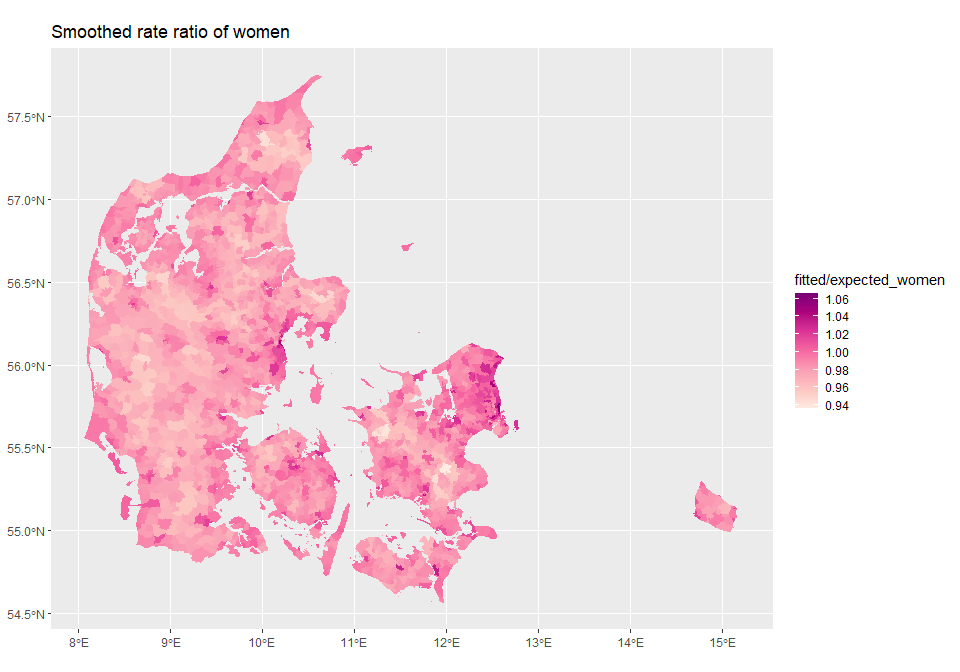
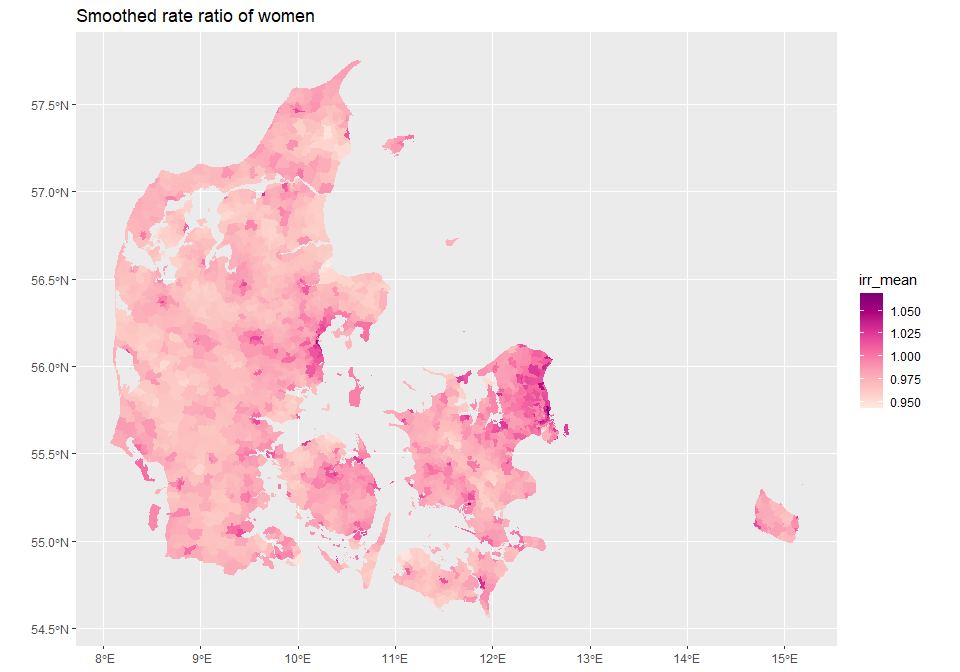
new bayesian model

diff --git a/README.md b/README.md
@@ -13,37 +13,234 @@ We calculate expected number of women in a parish as the national rate
 times population of each parish. Then the model is fitted.
 
 ``` r
+#library(CARBayes)
+#library(ape)
 library(tidyverse)
-library(spaMM)
 library(sf)
 library(dagirlite)
+library(spdep)
+
 
 data("geo_sogne")
 
-geo_sogne$expected_women <- geo_sogne$population * (sum(geo_sogne$women) / sum(geo_sogne$men) / 2)
+## -----------------------------------------------------------------------------
+## Setup
+## -----------------------------------------------------------------------------
 
-nbs <- st_intersects(geo_sogne, geo_sogne, sparse = FALSE)
-nbs[] <- +nbs
+# Parish ids and expected number of women
 geo_sogne$id <- 1:nrow(geo_sogne)
+geo_sogne$expected_women <- 
+  geo_sogne$population * (sum(geo_sogne$women) / sum(geo_sogne$men) / 2)
 
-fit <- fitme(women ~ 0 + offset(log(expected_women)) + adjacency(1|id), adjMatrix = nbs, 
-             data = geo_sogne, family = "poisson", method = "REML")
+# Testing for smoothed irr > 1 + theta with
+theta <- 0.02
 
-pred <- predict(fit, variances = list(linpred = TRUE, 
-                                      disp = TRUE, 
-                                      respVar = TRUE))
+## -----------------------------------------------------------------------------
+## Adjacency matrix - step 1: 
+## Bordering parishes
+## -----------------------------------------------------------------------------
+nbs <- +st_intersects(geo_sogne, geo_sogne, sparse = F)
+diag(nbs) <- 0
 
-geo_sogne$pred <- pred[]
-geo_sogne$fitted <- fitted(fit)
-geo_sogne$pv <- attr(pred, which = "predVar")
+geo_tbl <- geo_sogne %>% st_drop_geometry()
+geo_sp  <- as(geo_sogne, "Spatial")
 
-geo_sogne$prob_01 <- pnorm(log(1.005), 
-                           mean = log(geo_sogne$pred) - log(geo_sogne$expected_women), 
-                           sd = sqrt(geo_sogne$pv), lower.tail = FALSE)
 
-geo_sogne$prob_02 <- pnorm(log(1.02), 
-                           mean = log(geo_sogne$pred) - log(geo_sogne$expected_women), 
-                           sd = sqrt(geo_sogne$pv), lower.tail = FALSE)
+## -----------------------------------------------------------------------------
+## Adjacency matrix - step 2:
+## Adding neighbors for
+## 1) parishes = island (no neighbors). A neighbor relation was added for ferry 
+##    and bridge connections
+## -----------------------------------------------------------------------------
+
+# Connections for parish = whole island (24)
+island_con <- 
+  tibble(kode = c(rep("7246", 3), "7257", "7326", "7327", "7485", 
+                  rep("7521", 4), "7667", "7668", 
+                  "7669", "7689", "7693", "7694", 
+                  rep("7764", 2), rep("7765", 2), 
+                  "7802", "7963" ,"8059", "8086", "8165", "8548", "8659",
+                  "8855", rep("9183", 3), "9313", "7568"),
+         navn = c(rep("Orø", 3), "Sejerø", "Agersø", "Omø", "Nyord", 
+                  rep("Bogø", 4), "Fejø", "Femø",  
+                  "Askø", "Thurø", "Drejø", "Strynø", 
+                  rep("Lyø", 2), rep("Avernakø", 2), 
+                  "Bågø", "Hjarnø", "Endelave", "Tunø", "Anholt", "Fur", 
+                  "Jegindø", "Venø", rep("Samsø", 3), "Fanø", "Christiansø"), 
+         kode_nabo = c("7456", "7275", "7274", 
+                       "9323", "7325", "7325", "7483", 
+                       "7469", "7521", "7491", "7611",
+                       "7641", "7641", "7666", "9139", "7676", "7741", 
+                       "7765", "7695", 
+                       "7764", "7695",
+                       "7801", "7962", "7962", "8097", "8231", "8581", 
+                       "8657", "8854", 
+                       "8097", "7268", "9066", 
+                       "8906","7566"),  
+         navn_nabo = c("Ferslev", "Tveje Merløse", "Sankt Nikolai",               # Orø
+                       "Føllenslev-Særslev", "Magleby", "Magleby", "Stege", 
+                       "Vordingborg", "Stubbekøbing", "Fanefjord", "Gundslev",    # Bogø
+                       "Birket", "Birket", "Bandholm", "Fredens", "Sankt Nikolaj", 
+                       "Rudkøbing",
+                       "Avernakø", "Faaborg",                                     # Lyø
+                       "Lyø", "Faaborg",                                          # Avernakø
+                       "Assens", "Glud", "Glud", "Halling", "Grenaa", "Selde", 
+                       "Søndbjerg", "Humlum", 
+                       "Halling", "Vor Frue", "Nyvang",                           # Samsø
+                       "Zions", "Gudhjem"))     
+
+
+# Add island = whole parish connections (ferry + bridge) to adjacency matrix
+island_nb <-
+  island_con %>% 
+  left_join(geo_tbl %>% select(kode, id_island = id), by = "kode") %>% 
+  left_join(geo_tbl %>% select(kode, id_nb = id), by = c("kode_nabo" = "kode")) %>% 
+  select(id_island, id_nb) %>% 
+  as.matrix()
+
+W_tmp <- nbs
+W_tmp[island_nb] <- 1; W_tmp[island_nb[, c(2, 1)]] <- 1
+
+
+## -----------------------------------------------------------------------------
+## Adjacency matrix - step 3:
+## Adding neighbors for parishes connected by bridge
+## -----------------------------------------------------------------------------
+
+# Other connections - including bridges from a list at vejdirektoratet.dk
+
+# Add connections via Lillebæltsbroen, Storebæltsbroen, 
+# Dronning Alexandrines Bro (Møn), Storstrømsbroen, Guldborgsundbroen, 
+# Kong Frederik d. IX-broen, Svendborgsundbroen, Kronprins Frederiks bro, 
+# Aggersundbroen, Hadsundbroen, Langelandsbroen, Legindvejlebroen, 
+# Limfjordstunellen, Limfjordsbroen, Oddesundbroen, Sallingsundbroen, 
+# Siøsundbroen, Vejlefjordbroen
+
+# Kronprinsesse Marys bro and Nordhavnsvejtunellen not added (opened in 2019 and 2017)
+# Alssundbroen, Karrebækdsmindebroen, Stege Storebro, Funder Ådal Bro not 
+# necessary to add as the bridge is inside a parish
+#
+# Farøbroen, Masnedsundbroen are included via Bogø above
+# so already included in W_old)
+
+# Gudenåbroen, Kalvebodbroen, Frederikssundsvejtunellen, Lindenborg Pæledæk, 
+# Næstved Svingbro, Silkeborg Langsø Broen, Silkeborgtunellen, Skive Ådal Broen,
+# Sorterendebroen not necessary to add (parishes already bordering) 
+# (some of these also quite new)
+
+other_con <- 
+  tibble(kode = c("7826", "7825", "7724", "7481", "7469", rep("7594", 2), "7578", 
+                  "7741", "7677", "7418", "9113", "8358", "9006", "9005", 
+                  "9173", "7692", "8693", "8375", "8376", "8854", "8546", "9092", 
+                  "8665"),
+         navn = c("Strib", "Vejlby", "Nyborg", "Kalvehave", "Vordingborg", 
+                  rep("Majbølle", 2), "Nykøbing F", "Rudkøbing", "Sankt Jørgens", 
+                  "Frederikssund", "Islebjerg", "Næsborg", "Dybbøl", "Egernsund", 
+                  "Falslev-Vindblæs", "Bjerreby", "Lødderup", "Nørresundby", 
+                  "Hvorup", "Humlum", "Glyngøre", "Nørremarks", "Stagstrup"), 
+         kode_nabo = c(rep("9163", 2), "9070", "7483", "9318", "7575", "9318", 
+                       "7596", "7692", "7690", rep("7453", 2), "8399", "8992", 
+                       "9025", "9191", "7741", "8546", "8364", "8372", "8658", 
+                       "8693", "7917", "8676"), 
+         navn_nabo = c(rep("Lyng", 2), "Halsskov", "Stege", "Nordvestfalster", 
+                       "Ønslev", "Nordvestfalster", "Toreby", "Bjerreby", 
+                       "Bregninge", rep("Gerlev", 2), "Aggersborg", "Ulkebøl", 
+                       "Rinkenæs", "Vive-Hadsund", "Rudkøbing", "Glyngøre", 
+                       "Budolfi", "Vejgård", "Odby", "Lødderup", "Vinding", 
+                       "Sundby"))
+
+
+
+# Add bridges for any pair of parish
+other_nb <- 
+  other_con %>% 
+  left_join(geo_tbl %>% select(kode, id_1 = id), by = "kode") %>% 
+  left_join(geo_tbl %>% select(kode, id_2 = id), by = c("kode_nabo" = "kode")) %>% 
+  select(id_1, id_2) %>% 
+  as.matrix()
+
+W <- W_tmp
+W[other_nb] <- 1; W[other_nb[, c(2, 1)]] <- 1
+
+## -----------------------------------------------------------------------------
+##  Plot neighbours
+## -----------------------------------------------------------------------------
+nb <- mat2listw(W, style = "B")
+nb_sf <- as(listw2lines(nb, coords = sp::coordinates(geo_sp)), "sf")
+nb_sf <- st_set_crs(nb_sf, st_crs(geo_sogne))
+
+geo_sogne %>% 
+  ggplot() + 
+  geom_sf(fill = "Dark Sea Green 3", color = "white", linewidth = 0.01) + 
+  geom_sf(data = nb_sf, linewidth = 0.1) + 
+  theme_void()
+```
+
+![](README_files/figure-gfm/datamanagement-1.png)<!-- -->
+
+``` r
+##------------------------------------------------------------------------------
+## CAR model
+##------------------------------------------------------------------------------
+
+# Fit Leroux model (using default priors)
+burnin    <- 10000
+n_chains  <- 3
+thin      <- 5
+n_samples <- 6000
+
+fit <-                                                                   
+  CARBayes::S.CARleroux(
+    formula  = women ~ offset(log(expected_women)), 
+    data     = geo_sogne, 
+    family   = "poisson", 
+    W        = W, 
+    thin     = thin,
+    burnin   = burnin,
+    n.chains = n_chains, 
+    n.cores  = n_chains, 
+    n.sample = burnin + (n_samples * thin / n_chains) 
+  )                                                                             
+```
+
+    ## Setting up the model.
+    ## The current progress of the model fitting algorithm has been output to CARBayesprogress.txt in the working directory
+    ## Summarising results.
+    ## Finished in  193.8 seconds.
+
+``` r
+# Check for residual autocorrelation
+ape::Moran.I(residuals(fit), W)
+```
+
+    ## $observed
+    ## [1] -0.0576505
+    ## 
+    ## $expected
+    ## [1] -0.0004672897
+    ## 
+    ## $sd
+    ## [1] 0.01412492
+    ## 
+    ## $p.value
+    ## [1] 5.157058e-05
+
+``` r
+# Smoothed IRR
+fitted_list <- fit$samples$fitted
+fitted      <- coda:::as.matrix.mcmc.list(fitted_list) 
+irr         <- t(t(fitted) / geo_sogne$expected_women)
+
+geo <- 
+  geo_sogne %>% 
+  mutate(
+    # Posterior mean smoothed IRR
+    irr_mean = apply(irr, 2, mean),  
+    # 95% credible interval (2.5th and 97.5th percentiles) 
+    irr_025  = apply(irr, 2, quantile, 0.025), 
+    irr_975  = apply(irr, 2, quantile, 0.975), 
+    # Posterior prob. of the smoothed IRR > 1+theta
+    prob     = apply(irr, 2, function(x) sum(x > 1 + theta)) / n_samples)
 ```
 
 ### Raw rates
@@ -53,10 +250,12 @@ might have high/low rates by change, therefore smoothing using a CAR
 model is adventageous.
 
 ``` r
-geo_sogne |> ggplot() + 
+p1 <- geo |> ggplot() + 
   geom_sf(aes(fill = women / expected_women), color = NA) +
   labs(title="Rate ratio of women") + 
   scale_fill_distiller(palette = "RdPu", direction = 1)
+
+p1
 ```
 
 ![](README_files/figure-gfm/unnamed-chunk-1-1.png)<!-- -->
@@ -67,8 +266,8 @@ Using a CAR model greatly reduces the range of rates as outliers are
 penalized.
 
 ``` r
-geo_sogne |> ggplot() + 
-  geom_sf(aes(fill = fitted / expected_women), color = NA)+
+geo |> ggplot() + 
+  geom_sf(aes(fill = irr_mean), color = NA)+
   labs(title="Smoothed rate ratio of women") + 
   scale_fill_distiller(palette = "RdPu", direction = 1)
 ```
@@ -82,14 +281,13 @@ rates of women close to large cities, and in high income areas. This
 makes intutive sense.
 
 ``` r
-geo_sogne |> pivot_longer(prob_01:prob_02, names_to = "increase", values_to = "val") %>% 
+geo |> 
   ggplot() + 
-  geom_sf(aes(fill = val > 0.95), color = NA) + 
-  geom_point(data = . %>% filter(val > 0.95), 
+  geom_sf(aes(fill = prob > 0.95), color = NA) + 
+  geom_point(data = . %>% filter(prob > 0.95), 
              aes(x = visueltcenter_x, y = visueltcenter_y), size = 7, shape = 21) +
-  labs(title="Significant clusters of women (0.5% and 2% increase)", x = NULL, y = NULL) + 
-  scale_fill_grey(start = 0.8, end=0.2) + 
-  facet_wrap(~increase)
+  labs(title="Significant clusters of women (2% increase)", x = NULL, y = NULL) + 
+  scale_fill_grey(start = 0.8, end=0.2)
 ```
 
 ![](README_files/figure-gfm/unnamed-chunk-3-1.png)<!-- -->
